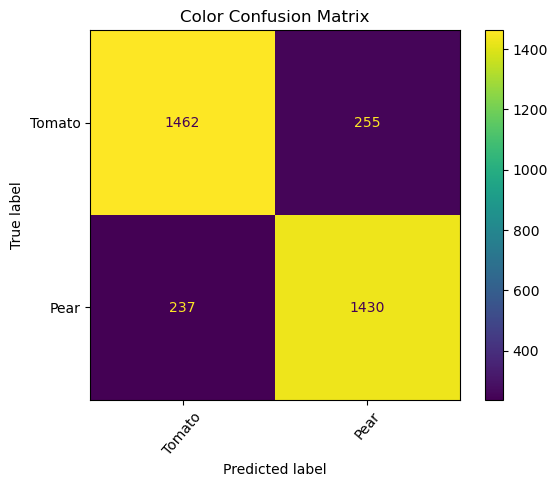
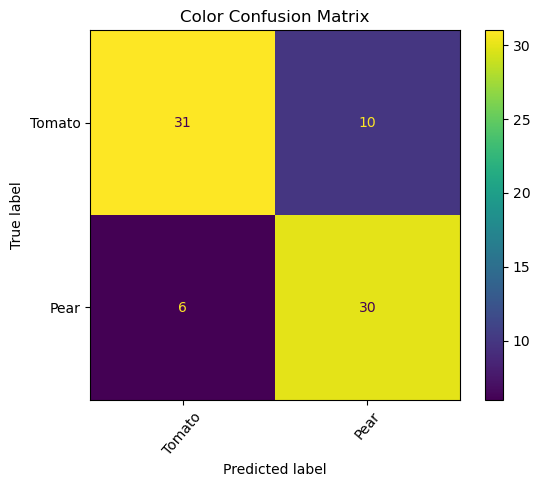
updates to plots/code

diff --git a/src/class_fruit_veggies_NB.py b/src/class_fruit_veggies_NB.py
@@ -15,39 +15,57 @@ class FruitsVeggiesNB(object):
         self.y = y
         self.all_fru_veg = all_fru_veg
 
-    def get_X_y_fv(self, X, y, all_fru_veg, grayscale, edges):
+    def get_X_y_fv(self, X, y, all_fru_veg, grayscale, edge):
         '''gets images and places into array'''
         for fru_veg in all_fru_veg:
             path = glob.glob('data/fruits_vegetables/{}/*.jpg'.format(fru_veg))
             label = fru_veg
             for p in path:
-                X.append(open_images(p, '{}'.format(fru_veg), grayscale, edges))
+                X.append(open_images(p, '{}'.format(fru_veg), grayscale, edge))
                 y.append(label)
         X = np.asarray(X)
         y = np.asarray(y)
         return X, y, all_fru_veg
         
-    def roc_you_curve(self, X_train, X_test, y_train, y_test): 
+    def roc_you_curve(self, X_train, X_test, y_train, y_test, grayscale, edge): 
         '''get Receiver Operating Characteristic Curve for NB'''
         model = MultinomialNB()
-        model.fit(X_train, y_train)   
-        plot_roc_curve(model, X_test, y_test, name='ROC Curve for Color Images NB')
+        model.fit(X_train, y_train)
+        if edge and grayscale:
+            name = 'ROC Curve for Edge Images NB'
+        elif grayscale:
+            name = 'ROC Curve for Grayscale Images NB'
+        else:
+            name = 'ROC Curve for Color Images NB'
+        plot_roc_curve(model, X_test, y_test, name=name)
         plt.legend()
-        # plt.savefig('images/color_roccurve.png',  bbox_inches='tight')
-        # plt.show()
+        if edge and grayscale:
+                plt.savefig('images/edge_roccurve.png',  bbox_inches='tight')
+        elif grayscale:
+            plt.savefig('images/grayscale_roccurve.png',  bbox_inches='tight')            
+        else:
+            plt.savefig('images/color_roccurve.png',  bbox_inches='tight')
+        plt.show()
         return plt
 
-    def plot_conf_matrix(self, X_train, X_test, y_train, y_test):
+    def plot_conf_matrix(self, X_train, X_test, y_train, y_test, grayscale, edge):
         '''get Confusion Matrix from NB'''
         model = MultinomialNB()
         model.fit(X_train, y_train)       
-        plot_confusion_matrix(model, X_test, y_test, labels=all_fru_veg, xticks_rotation=50)    
-        plt.title('Color Confusion Matrix')
-        # plt.savefig('images/color_confusion_matrix.png',  bbox_inches='tight')
-        # plt.show()
+        plot_confusion_matrix(model, X_test, y_test, labels=all_fru_veg, xticks_rotation=50)
+        if edge and grayscale:
+                plt.title('Edge Confusion Matrix')
+                plt.savefig('images/edge_confusion_matrix.png',  bbox_inches='tight')
+        elif grayscale:
+            plt.title('Grayscale Confusion Matrix')
+            plt.savefig('images/grayscale_confusion_matrix.png',  bbox_inches='tight')            
+        else:
+            plt.title('Color Confusion Matrix')
+            plt.savefig('images/color_confusion_matrix.png',  bbox_inches='tight')
+        plt.show()
         return plt
         
-    def naive_bayes(self, X_train, X_test, y_train, y_test):
+    def naive_bayes(self, X_train, X_test, y_train, y_test, grayscale, edge):
         '''get Classification Report from NB'''
         model = MultinomialNB()
         model.fit(X_train, y_train)
@@ -57,14 +75,15 @@ class FruitsVeggiesNB(object):
     
 if __name__ == '__main__':
     X = []
-    y = []   
+    y = []
+    grayscale = True
+    edge = True
     all_fru_veg = os.listdir('data/fruits_vegetables')[10:41:27]    
     fru_veg_class = FruitsVeggiesNB(X, y, all_fru_veg)
-    X, y, all_fru_veg = fru_veg_class.get_X_y_fv(X, y, all_fru_veg, grayscale=False, edges=False)
+    X, y, all_fru_veg = fru_veg_class.get_X_y_fv(X, y, all_fru_veg, grayscale=grayscale, edge=edge)
     X_train, X_test, y_train, y_test = train_test_split(X, y)
     
-    # plot_both = fru_veg_class.plot_roc_conf(X_train, X_test, y_train, y_test)
-    roc = fru_veg_class.roc_you_curve(X_train, X_test, y_train, y_test)        
-    plot_conf_matrix = fru_veg_class.plot_conf_matrix(X_train, X_test, y_train, y_test)
-    # naiveb_model = fru_veg_class.naive_bayes(X_train, X_test, y_train, y_test)
-    # print(naiveb_model)
+    roc = fru_veg_class.roc_you_curve(X_train, X_test, y_train, y_test, grayscale=grayscale, edge=edge)        
+    plot_conf_matrix = fru_veg_class.plot_conf_matrix(X_train, X_test, y_train, y_test, grayscale=grayscale, edge=edge)
+    naiveb_model = fru_veg_class.naive_bayes(X_train, X_test, y_train, y_test, grayscale=grayscale, edge=edge)
+    print(naiveb_model)

diff --git a/src/image_loader.py b/src/image_loader.py
@@ -24,15 +24,15 @@ def open_images(path, fruit_name, grayscale=False, edges=False):
 def look_at_edges(fruit_name, grayimage): 
     '''function to get the edges of grayscaled images'''
     sobel_img = filters.sobel(grayimage)
-    io.imshow(sobel_img)
-    plt.title('AVG {} Grayscale Edges'.format(fruit_name))
-    plt.savefig('images/Avg_{}_color_edges.png'.format(fruit_name))
-    plt.show()
-    sobel_img.round(2)
-    io.imshow(gaussian(sobel_img, sigma=3))
-    plt.title('AVG {} Gaussian'.format(fruit_name))
-    plt.savefig('images/avg_{}_gaussian.png'.format(fruit_name))
-    plt.show()
+    # io.imshow(sobel_img)
+    # plt.title('AVG {} Grayscale Edges'.format(fruit_name))
+    # plt.savefig('images/Avg_{}_color_edges.png'.format(fruit_name))
+    # plt.show()
+    # sobel_img.round(2)
+    # io.imshow(gaussian(sobel_img, sigma=3))
+    # plt.title('AVG {} Gaussian'.format(fruit_name))
+    # plt.savefig('images/avg_{}_gaussian.png'.format(fruit_name))
+    # plt.show()
     sobel_ravel = sobel_img.ravel()
     return sobel_ravel
 

diff --git a/src/class_pca_scree.py b/src/class_pca_scree.py
@@ -70,7 +70,7 @@ if __name__ == '__main__':
     y_enumerated = []
     all_fru_veg = os.listdir('data/fruits_vegetables')[10:41:27]
     fru_veg_class = FruitsVeggiesNB(X, y, all_fru_veg)
-    X, y, all_fru_veg = fru_veg_class.get_X_y_fv(X, y, all_fru_veg)
+    X, y, all_fru_veg = fru_veg_class.get_X_y_fv(X, y, all_fru_veg, grayscale=False, edges=False)
     for fruit in y:
         if fruit == 'Tomato':
             y_enumerated.append(1)

diff --git a/README.md b/README.md
@@ -100,11 +100,11 @@ Classification Report For Grayscale Images:
  
 | | Precision | Recall | F1_Score | Support |
 |  --: |  --: | --: | --: | --: |
-|  Pear| 0.844|  0.807| 0.825| 1734|
-|  Tomato| 0.806|  0.844| 0.824| 1650|
-| accuracy| | | 0.825| 3384|
-| macro avg| 0.825|  0.825| 0.825| 3384|
-| weighted avg| 0.826|  0.825| 0.825| 3384|
+|  Pear| 0.838|  0.738| 0.785| 42|
+|  Tomato| 0.725|  0.829| 0.773| 35|
+| accuracy| | | 0.779| 77|
+| macro avg| 0.781|  0.783| 0.779| 77|
+| weighted avg| 0.787|  0.779| 0.780 77|
 
 Color Confusion Matrix/Color ROC Curve:
 
@@ -116,11 +116,11 @@ Classification Report For Color Images:
 
 | | Precision | Recall | F1_Score | Support |
 |  --: |  --: | --: | --: | --: |
-|  Pear| 0.858|  0.873| 0.865| 1720|
-| Tomato | 0.866|  0.850| 0.858| 1664|
-| accuracy| | | 0.862| 3384|
-| macro avg| 0.862|  0.862| 0.862| 3384|
-| weighted avg| 0.862|  0.862| 0.862| 3384|
+|  Pear| 0.750|  0.833| 0.789| 36|
+| Tomato | 0.838|  0.756| 0.795| 41|
+| accuracy| | | 0.792| 77|
+| macro avg| 0.794|  0.795| 0.792| 77|
+| weighted avg| 0.797|  0.792| 0.792| 77|
 
 Edge Confusion Matrix/Edge ROC Curve:
 | Edge Confusion Matrix                 |                 Edge ROC Curve|
@@ -131,11 +131,11 @@ Classification Report For Edges Images:
 
 | | Precision | Recall | F1_Score | Support |
 |  --: |  --: | --: | --: | --: |
-|  Pear| 0.818|  0.806| 0.812| 1664|
-|  Tomato| 0.815|  0.827| 0.821| 1720|
-| accuracy| | | 0.816| 3384|
-| macro avg| 0.817|  0.816| 0.816| 3384|
-| weighted avg| 0.817|  0.816| 0.816| 3384|
+|  Pear| 0.821|  0.800| 0.810| 40|
+|  Tomato| 0.789|  0.811| 0.800| 37|
+| accuracy| | | 0.805| 77|
+| macro avg| 0.805|  0.805| 0.805| 77|
+| weighted avg| 0.806|  0.805| 0.805| 77|
 
 I, then, ran a Convolution Neural Network on the grayscale images as I was interested to see how that would train.
 My first few attempts were around 50% with a ReLu activation function. I switched the activation function to Linear and it scored a 91%.
